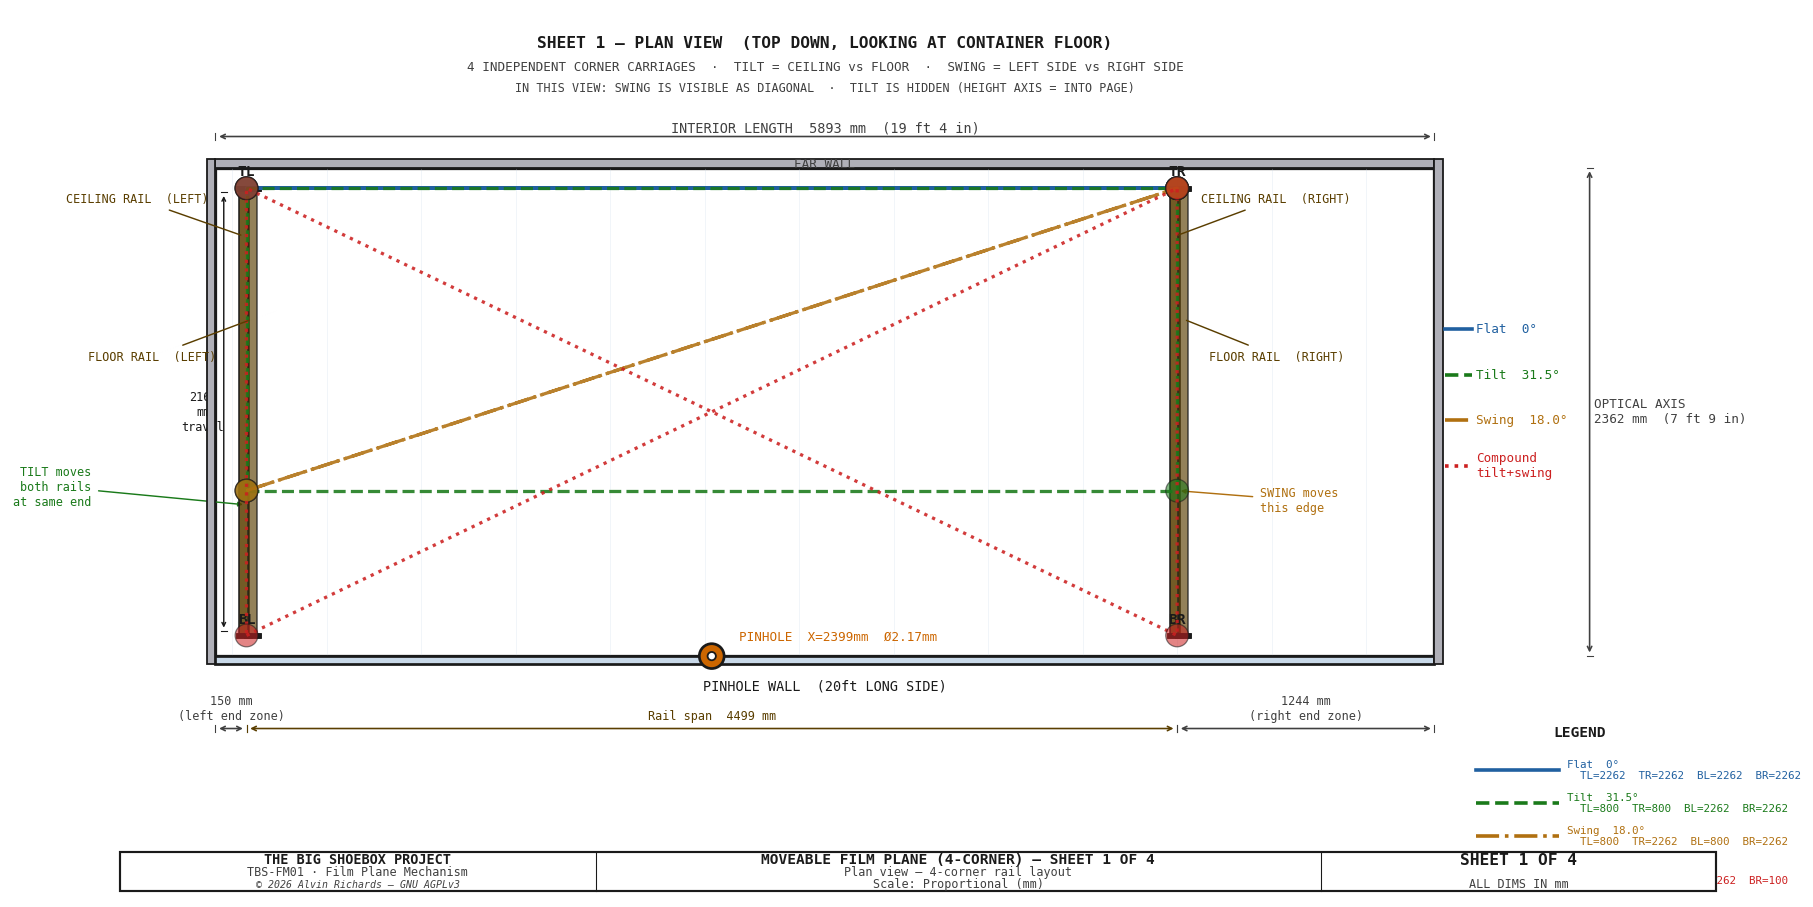
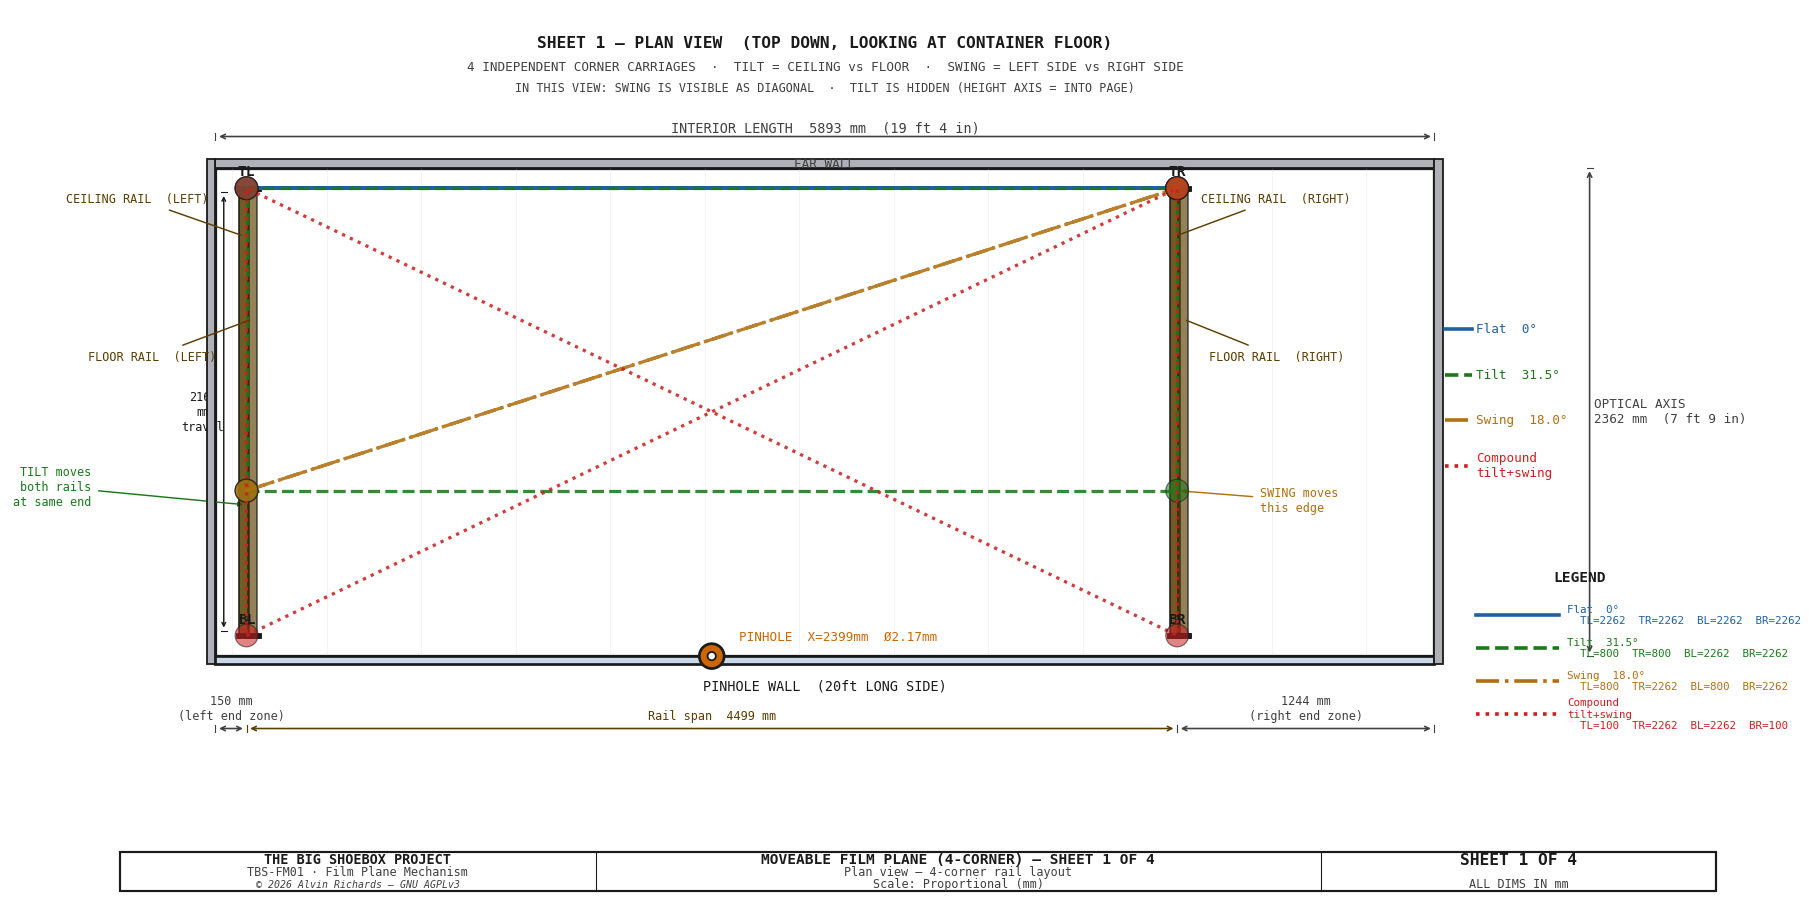
Move film-plane-sheet1 legend up to clear title block

Changed region(s): [[0.834, 0.6792, 0.9884, 0.9261], [0.9575, 0.957, 0.9884, 0.9879], [0.8649, 0.6174, 0.8958, 0.6483]]

diff --git a/generate_film_plane_mechanism.py b/generate_film_plane_mechanism.py
@@ -277,9 +277,9 @@ def sheet1():
             "IN THIS VIEW: SWING IS VISIBLE AS DIAGONAL  ·  TILT IS HIDDEN (HEIGHT AXIS = INTO PAGE)",
             color=DIM, fontsize=6.5, ha="center", **FONT)
 
-    # Legend box — bottom right
+    # Legend box — right side, above title block
     leg_x = L + 200
-    leg_y = -550
+    leg_y = 200
     ax.text(leg_x + 500, leg_y + 160, "LEGEND", color=WHITE,
             fontsize=8, fontweight="bold", ha="center", **FONT)
     for i, (name, d_TL, d_TR, d_BL, d_BR, col, ls) in enumerate(CONFIGS):
